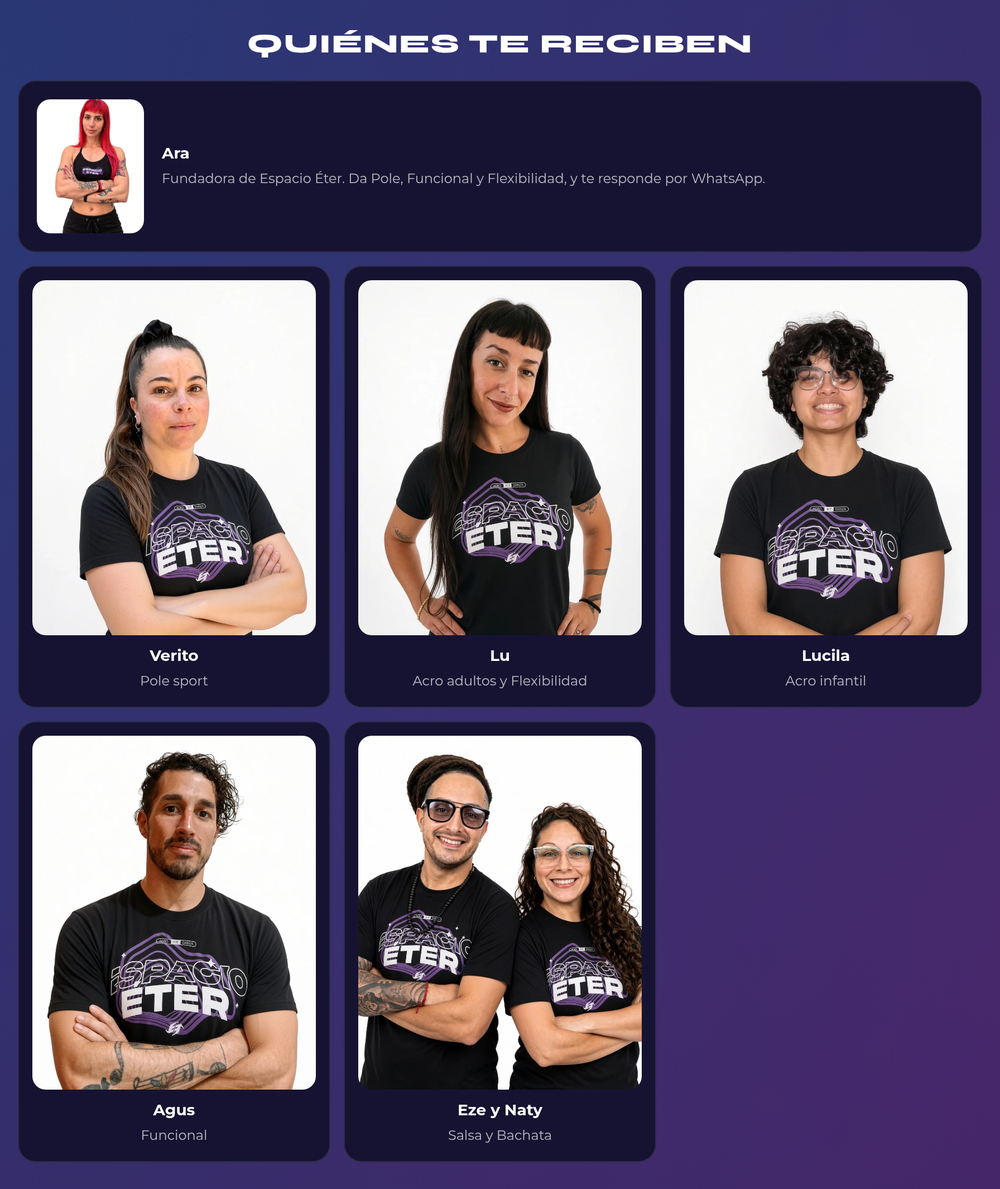
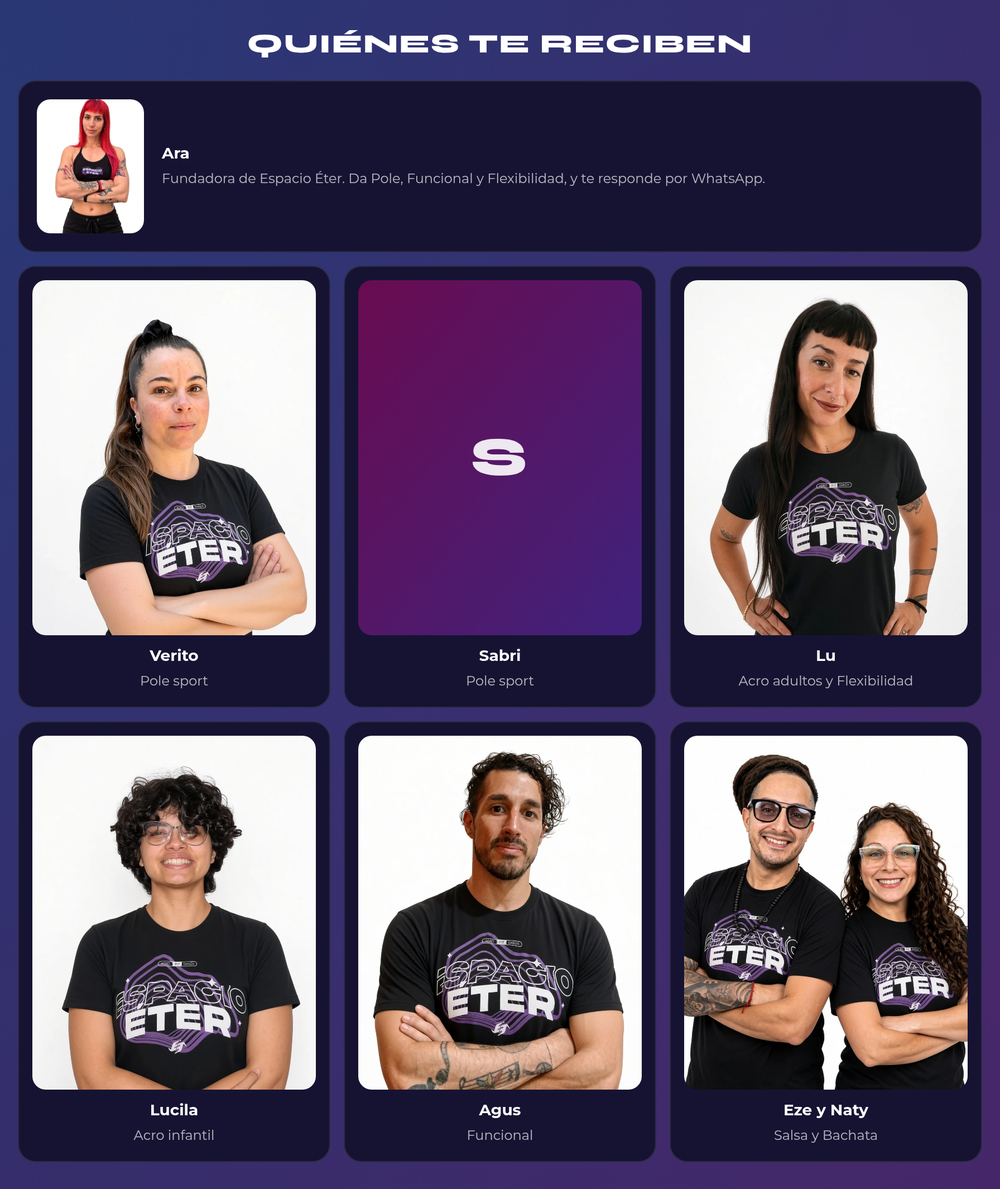
Suma a Sabri (Pole sport), sin foto por ahora

diff --git a/tailwind.min.css b/tailwind.min.css
@@ -1,1 +1,1 @@
-*,:after,:before{--tw-border-spacing-x:0;--tw-border-spacing-y:0;--tw-translate-x:0;--tw-translate-y:0;--tw-rotate:0;--tw-skew-x:0;--tw-skew-y:0;--tw-scale-x:1;--tw-scale-y:1;--tw-pan-x: ;--tw-pan-y: ;--tw-pinch-zoom: ;--tw-scroll-snap-strictness:proximity;--tw-gradient-from-position: ;--tw-gradient-via-position: ;--tw-gradient-to-position: ;--tw-ordinal: ;--tw-slashed-zero: ;--tw-numeric-figure: ;--tw-numeric-spacing: ;--tw-numeric-fraction: ;--tw-ring-inset: ;--tw-ring-offset-width:0px;--tw-ring-offset-color:#fff;--tw-ring-color:rgba(59,130,246,.5);--tw-ring-offset-shadow:0 0 #0000;--tw-ring-shadow:0 0 #0000;--tw-shadow:0 0 #0000;--tw-shadow-colored:0 0 #0000;--tw-blur: ;--tw-brightness: ;--tw-contrast: ;--tw-grayscale: ;--tw-hue-rotate: ;--tw-invert: ;--tw-saturate: ;--tw-sepia: ;--tw-drop-shadow: ;--tw-backdrop-blur: ;--tw-backdrop-brightness: ;--tw-backdrop-contrast: ;--tw-backdrop-grayscale: ;--tw-backdrop-hue-rotate: ;--tw-backdrop-invert: ;--tw-backdrop-opacity: ;--tw-backdrop-saturate: ;--tw-backdrop-sepia: ;--tw-contain-size: ;--tw-contain-layout: ;--tw-contain-paint: ;--tw-contain-style: }::backdrop{--tw-border-spacing-x:0;--tw-border-spacing-y:0;--tw-translate-x:0;--tw-translate-y:0;--tw-rotate:0;--tw-skew-x:0;--tw-skew-y:0;--tw-scale-x:1;--tw-scale-y:1;--tw-pan-x: ;--tw-pan-y: ;--tw-pinch-zoom: ;--tw-scroll-snap-strictness:proximity;--tw-gradient-from-position: ;--tw-gradient-via-position: ;--tw-gradient-to-position: ;--tw-ordinal: ;--tw-slashed-zero: ;--tw-numeric-figure: ;--tw-numeric-spacing: ;--tw-numeric-fraction: ;--tw-ring-inset: ;--tw-ring-offset-width:0px;--tw-ring-offset-color:#fff;--tw-ring-color:rgba(59,130,246,.5);--tw-ring-offset-shadow:0 0 #0000;--tw-ring-shadow:0 0 #0000;--tw-shadow:0 0 #0000;--tw-shadow-colored:0 0 #0000;--tw-blur: ;--tw-brightness: ;--tw-contrast: ;--tw-grayscale: ;--tw-hue-rotate: ;--tw-invert: ;--tw-saturate: ;--tw-sepia: ;--tw-drop-shadow: ;--tw-backdrop-blur: ;--tw-backdrop-brightness: ;--tw-backdrop-contrast: ;--tw-backdrop-grayscale: ;--tw-backdrop-hue-rotate: ;--tw-backdrop-invert: ;--tw-backdrop-opacity: ;--tw-backdrop-saturate: ;--tw-backdrop-sepia: ;--tw-contain-size: ;--tw-contain-layout: ;--tw-contain-paint: ;--tw-contain-style: }/*! tailwindcss v3.4.17 | MIT License | https://tailwindcss.com*/*,:after,:before{box-sizing:border-box;border:0 solid #e5e7eb}:after,:before{--tw-content:""}:host,html{line-height:1.5;-webkit-text-size-adjust:100%;-moz-tab-size:4;-o-tab-size:4;tab-size:4;font-family:ui-sans-serif,system-ui,sans-serif,Apple Color Emoji,Segoe UI Emoji,Segoe UI Symbol,Noto Color Emoji;font-feature-settings:normal;font-variation-settings:normal;-webkit-tap-highlight-color:transparent}body{margin:0;line-height:inherit}hr{height:0;color:inherit;border-top-width:1px}abbr:where([title]){-webkit-text-decoration:underline dotted;text-decoration:underline dotted}h1,h2,h3,h4,h5,h6{font-size:inherit;font-weight:inherit}a{color:inherit;text-decoration:inherit}b,strong{font-weight:bolder}code,kbd,pre,samp{font-family:ui-monospace,SFMono-Regular,Menlo,Monaco,Consolas,Liberation Mono,Courier New,monospace;font-feature-settings:normal;font-variation-settings:normal;font-size:1em}small{font-size:80%}sub,sup{font-size:75%;line-height:0;position:relative;vertical-align:baseline}sub{bottom:-.25em}sup{top:-.5em}table{text-indent:0;border-color:inherit;border-collapse:collapse}button,input,optgroup,select,textarea{font-family:inherit;font-feature-settings:inherit;font-variation-settings:inherit;font-size:100%;font-weight:inherit;line-height:inherit;letter-spacing:inherit;color:inherit;margin:0;padding:0}button,select{text-transform:none}button,input:where([type=button]),input:where([type=reset]),input:where([type=submit]){-webkit-appearance:button;background-color:transparent;background-image:none}:-moz-focusring{outline:auto}:-moz-ui-invalid{box-shadow:none}progress{vertical-align:baseline}::-webkit-inner-spin-button,::-webkit-outer-spin-button{height:auto}[type=search]{-webkit-appearance:textfield;outline-offset:-2px}::-webkit-search-decoration{-webkit-appearance:none}::-webkit-file-upload-button{-webkit-appearance:button;font:inherit}summary{display:list-item}blockquote,dd,dl,figure,h1,h2,h3,h4,h5,h6,hr,p,pre{margin:0}fieldset{margin:0}fieldset,legend{padding:0}menu,ol,ul{list-style:none;margin:0;padding:0}dialog{padding:0}textarea{resize:vertical}input::-moz-placeholder,textarea::-moz-placeholder{opacity:1;color:#9ca3af}input::placeholder,textarea::placeholder{opacity:1;color:#9ca3af}[role=button],button{cursor:pointer}:disabled{cursor:default}audio,canvas,embed,iframe,img,object,svg,video{display:block;vertical-align:middle}img,video{max-width:100%;height:auto}[hidden]:where(:not([hidden=until-found])){display:none}.pointer-events-none{pointer-events:none}.fixed{position:fixed}.absolute{position:absolute}.relative{position:relative}.sticky{position:sticky}.inset-0{inset:0}.bottom-0{bottom:0}.left-0{left:0}.right-0{right:0}.top-0{top:0}.z-10{z-index:10}.z-40{z-index:40}.z-50{z-index:50}.mx-auto{margin-left:auto;margin-right:auto}.my-4{margin-top:1rem;margin-bottom:1rem}.-mt-2{margin-top:-.5rem}.mb-1{margin-bottom:.25rem}.mb-2{margin-bottom:.5rem}.mb-3{margin-bottom:.75rem}.mb-4{margin-bottom:1rem}.mb-5{margin-bottom:1.25rem}.mb-6{margin-bottom:1.5rem}.ml-1{margin-left:.25rem}.mr-2{margin-right:.5rem}.mt-1{margin-top:.25rem}.mt-2{margin-top:.5rem}.mt-3{margin-top:.75rem}.mt-4{margin-top:1rem}.mt-5{margin-top:1.25rem}.mt-6{margin-top:1.5rem}.mt-9{margin-top:2.25rem}.block{display:block}.inline-block{display:inline-block}.flex{display:flex}.inline-flex{display:inline-flex}.grid{display:grid}.hidden{display:none}.aspect-\[4\/5\]{aspect-ratio:4/5}.aspect-square{aspect-ratio:1/1}.h-10{height:2.5rem}.h-11{height:2.75rem}.h-2\.5{height:.625rem}.h-44{height:11rem}.h-full{height:100%}.min-h-screen{min-height:100vh}.w-10{width:2.5rem}.w-11{width:2.75rem}.w-2\.5{width:.625rem}.w-24{width:6rem}.w-full{width:100%}.max-w-2xl{max-width:42rem}.max-w-3xl{max-width:48rem}.max-w-4xl{max-width:56rem}.max-w-md{max-width:28rem}.max-w-xl{max-width:36rem}.flex-1{flex:1 1 0%}.shrink-0{flex-shrink:0}.transform{transform:translate(var(--tw-translate-x),var(--tw-translate-y)) rotate(var(--tw-rotate)) skewX(var(--tw-skew-x)) skewY(var(--tw-skew-y)) scaleX(var(--tw-scale-x)) scaleY(var(--tw-scale-y))}@keyframes pulse{50%{opacity:.5}}.animate-pulse{animation:pulse 2s cubic-bezier(.4,0,.6,1) infinite}.cursor-pointer{cursor:pointer}.scroll-mt-14{scroll-margin-top:3.5rem}.grid-cols-1{grid-template-columns:repeat(1,minmax(0,1fr))}.grid-cols-2{grid-template-columns:repeat(2,minmax(0,1fr))}.flex-col{flex-direction:column}.flex-wrap{flex-wrap:wrap}.items-start{align-items:flex-start}.items-center{align-items:center}.items-baseline{align-items:baseline}.justify-center{justify-content:center}.justify-between{justify-content:space-between}.gap-1\.5{gap:.375rem}.gap-2{gap:.5rem}.gap-3{gap:.75rem}.gap-4{gap:1rem}.gap-6{gap:1.5rem}.space-y-2>:not([hidden])~:not([hidden]){--tw-space-y-reverse:0;margin-top:calc(.5rem*(1 - var(--tw-space-y-reverse)));margin-bottom:calc(.5rem*var(--tw-space-y-reverse))}.space-y-3>:not([hidden])~:not([hidden]){--tw-space-y-reverse:0;margin-top:calc(.75rem*(1 - var(--tw-space-y-reverse)));margin-bottom:calc(.75rem*var(--tw-space-y-reverse))}.space-y-4>:not([hidden])~:not([hidden]){--tw-space-y-reverse:0;margin-top:calc(1rem*(1 - var(--tw-space-y-reverse)));margin-bottom:calc(1rem*var(--tw-space-y-reverse))}.divide-y>:not([hidden])~:not([hidden]){--tw-divide-y-reverse:0;border-top-width:calc(1px*(1 - var(--tw-divide-y-reverse)));border-bottom-width:calc(1px*var(--tw-divide-y-reverse))}.divide-\[\#0069b4\]\/40>:not([hidden])~:not([hidden]){border-color:rgba(0,105,180,.4)}.overflow-hidden{overflow:hidden}.scroll-smooth{scroll-behavior:smooth}.rounded-2xl{border-radius:1rem}.rounded-3xl{border-radius:1.5rem}.rounded-full{border-radius:9999px}.rounded-lg{border-radius:.5rem}.rounded-xl{border-radius:.75rem}.border{border-width:1px}.border-2{border-width:2px}.border-b{border-bottom-width:1px}.border-t{border-top-width:1px}.border-dashed{border-style:dashed}.border-\[\#0069b4\]{--tw-border-opacity:1;border-color:rgb(0 105 180/var(--tw-border-opacity,1))}.border-\[\#0069b4\]\/50{border-color:rgba(0,105,180,.5)}.border-\[\#0069b4\]\/60{border-color:rgba(0,105,180,.6)}.border-\[\#0069b4\]\/80{border-color:rgba(0,105,180,.8)}.border-\[\#38bdf8\]\/40{border-color:rgba(56,189,248,.4)}.border-\[\#613b7f\]{--tw-border-opacity:1;border-color:rgb(97 59 127/var(--tw-border-opacity,1))}.border-\[\#e6007e\]{--tw-border-opacity:1;border-color:rgb(230 0 126/var(--tw-border-opacity,1))}.border-emerald-400\/40{border-color:rgba(52,211,153,.4)}.border-purple-400{--tw-border-opacity:1;border-color:rgb(192 132 252/var(--tw-border-opacity,1))}.border-white\/10{border-color:hsla(0,0%,100%,.1)}.border-white\/15{border-color:hsla(0,0%,100%,.15)}.border-white\/20{border-color:hsla(0,0%,100%,.2)}.bg-\[\#0069b4\]{--tw-bg-opacity:1;background-color:rgb(0 105 180/var(--tw-bg-opacity,1))}.bg-\[\#0069b4\]\/20{background-color:rgba(0,105,180,.2)}.bg-\[\#0069b4\]\/25{background-color:rgba(0,105,180,.25)}.bg-\[\#0069b4\]\/30{background-color:rgba(0,105,180,.3)}.bg-\[\#0069b4\]\/40{background-color:rgba(0,105,180,.4)}.bg-\[\#161332\]{--tw-bg-opacity:1;background-color:rgb(22 19 50/var(--tw-bg-opacity,1))}.bg-\[\#161332\]\/80{background-color:rgba(22,19,50,.8)}.bg-\[\#1b173d\]\/90{background-color:rgba(27,23,61,.9)}.bg-\[\#272250\]{--tw-bg-opacity:1;background-color:rgb(39 34 80/var(--tw-bg-opacity,1))}.bg-\[\#272250\]\/90{background-color:rgba(39,34,80,.9)}.bg-\[\#613b7f\]\/40{background-color:rgba(97,59,127,.4)}.bg-\[\#e6007e\]{--tw-bg-opacity:1;background-color:rgb(230 0 126/var(--tw-bg-opacity,1))}.bg-\[\#e6007e\]\/20{background-color:rgba(230,0,126,.2)}.bg-black\/25{background-color:rgba(0,0,0,.25)}.bg-emerald-400{--tw-bg-opacity:1;background-color:rgb(52 211 153/var(--tw-bg-opacity,1))}.bg-emerald-500\/20{background-color:rgba(16,185,129,.2)}.bg-white{--tw-bg-opacity:1;background-color:rgb(255 255 255/var(--tw-bg-opacity,1))}.bg-white\/5{background-color:hsla(0,0%,100%,.05)}.bg-gradient-to-b{background-image:linear-gradient(to bottom,var(--tw-gradient-stops))}.bg-gradient-to-t{background-image:linear-gradient(to top,var(--tw-gradient-stops))}.from-\[\#161332\]{--tw-gradient-from:#161332 var(--tw-gradient-from-position);--tw-gradient-to:rgba(22,19,50,0) var(--tw-gradient-to-position);--tw-gradient-stops:var(--tw-gradient-from),var(--tw-gradient-to)}.from-\[\#272250\]\/70{--tw-gradient-from:rgba(39,34,80,.7) var(--tw-gradient-from-position);--tw-gradient-to:rgba(39,34,80,0) var(--tw-gradient-to-position);--tw-gradient-stops:var(--tw-gradient-from),var(--tw-gradient-to)}.via-\[\#161332\]\/80{--tw-gradient-to:rgba(22,19,50,0) var(--tw-gradient-to-position);--tw-gradient-stops:var(--tw-gradient-from),rgba(22,19,50,.8) var(--tw-gradient-via-position),var(--tw-gradient-to)}.via-\[\#161332\]\/95{--tw-gradient-to:rgba(22,19,50,0) var(--tw-gradient-to-position);--tw-gradient-stops:var(--tw-gradient-from),rgba(22,19,50,.95) var(--tw-gradient-via-position),var(--tw-gradient-to)}.to-\[\#161332\]{--tw-gradient-to:#161332 var(--tw-gradient-to-position)}.to-transparent{--tw-gradient-to:transparent var(--tw-gradient-to-position)}.fill-white{fill:#fff}.object-cover{-o-object-fit:cover;object-fit:cover}.p-1\.5{padding:.375rem}.p-3{padding:.75rem}.p-3\.5{padding:.875rem}.p-4{padding:1rem}.p-5{padding:1.25rem}.p-6{padding:1.5rem}.px-2{padding-left:.5rem;padding-right:.5rem}.px-2\.5{padding-left:.625rem;padding-right:.625rem}.px-3{padding-left:.75rem;padding-right:.75rem}.px-3\.5{padding-left:.875rem;padding-right:.875rem}.px-4{padding-left:1rem;padding-right:1rem}.px-5{padding-left:1.25rem;padding-right:1.25rem}.px-6{padding-left:1.5rem;padding-right:1.5rem}.px-8{padding-left:2rem;padding-right:2rem}.py-0\.5{padding-top:.125rem;padding-bottom:.125rem}.py-1{padding-top:.25rem;padding-bottom:.25rem}.py-1\.5{padding-top:.375rem;padding-bottom:.375rem}.py-10{padding-top:2.5rem;padding-bottom:2.5rem}.py-2{padding-top:.5rem;padding-bottom:.5rem}.py-2\.5{padding-top:.625rem;padding-bottom:.625rem}.py-3{padding-top:.75rem;padding-bottom:.75rem}.py-3\.5{padding-top:.875rem;padding-bottom:.875rem}.py-4{padding-top:1rem;padding-bottom:1rem}.py-6{padding-top:1.5rem;padding-bottom:1.5rem}.py-8{padding-top:2rem;padding-bottom:2rem}.pb-10{padding-bottom:2.5rem}.pb-12{padding-bottom:3rem}.pb-24{padding-bottom:6rem}.pb-9{padding-bottom:2.25rem}.pt-3{padding-top:.75rem}.pt-6{padding-top:1.5rem}.pt-7{padding-top:1.75rem}.text-left{text-align:left}.text-center{text-align:center}.font-sans{font-family:ui-sans-serif,system-ui,sans-serif,Apple Color Emoji,Segoe UI Emoji,Segoe UI Symbol,Noto Color Emoji}.text-2xl{font-size:1.5rem;line-height:2rem}.text-3xl{font-size:1.875rem;line-height:2.25rem}.text-4xl{font-size:2.25rem;line-height:2.5rem}.text-\[10px\]{font-size:10px}.text-\[11px\]{font-size:11px}.text-base{font-size:1rem;line-height:1.5rem}.text-lg{font-size:1.125rem;line-height:1.75rem}.text-sm{font-size:.875rem;line-height:1.25rem}.text-xl{font-size:1.25rem;line-height:1.75rem}.text-xs{font-size:.75rem;line-height:1rem}.font-black{font-weight:900}.font-bold{font-weight:700}.font-medium{font-weight:500}.font-semibold{font-weight:600}.uppercase{text-transform:uppercase}.italic{font-style:italic}.leading-none{line-height:1}.leading-relaxed{line-height:1.625}.tracking-\[0\.28em\]{letter-spacing:.28em}.tracking-\[0\.35em\]{letter-spacing:.35em}.tracking-wide{letter-spacing:.025em}.tracking-wider{letter-spacing:.05em}.tracking-widest{letter-spacing:.1em}.text-\[\#0069b4\]{--tw-text-opacity:1;color:rgb(0 105 180/var(--tw-text-opacity,1))}.text-\[\#272250\]{--tw-text-opacity:1;color:rgb(39 34 80/var(--tw-text-opacity,1))}.text-\[\#272250\]\/60{color:rgba(39,34,80,.6)}.text-\[\#38bdf8\]{--tw-text-opacity:1;color:rgb(56 189 248/var(--tw-text-opacity,1))}.text-\[\#4285F4\]{--tw-text-opacity:1;color:rgb(66 133 244/var(--tw-text-opacity,1))}.text-\[\#e6007e\]{--tw-text-opacity:1;color:rgb(230 0 126/var(--tw-text-opacity,1))}.text-\[\#ff66b8\]{--tw-text-opacity:1;color:rgb(255 102 184/var(--tw-text-opacity,1))}.text-amber-300{--tw-text-opacity:1;color:rgb(252 211 77/var(--tw-text-opacity,1))}.text-amber-500{--tw-text-opacity:1;color:rgb(245 158 11/var(--tw-text-opacity,1))}.text-emerald-300{--tw-text-opacity:1;color:rgb(110 231 183/var(--tw-text-opacity,1))}.text-purple-300{--tw-text-opacity:1;color:rgb(216 180 254/var(--tw-text-opacity,1))}.text-white{--tw-text-opacity:1;color:rgb(255 255 255/var(--tw-text-opacity,1))}.text-white\/30{color:hsla(0,0%,100%,.3)}.text-white\/50{color:hsla(0,0%,100%,.5)}.text-white\/60{color:hsla(0,0%,100%,.6)}.text-white\/65{color:hsla(0,0%,100%,.65)}.text-white\/70{color:hsla(0,0%,100%,.7)}.text-white\/75{color:hsla(0,0%,100%,.75)}.text-white\/80{color:hsla(0,0%,100%,.8)}.text-white\/85{color:hsla(0,0%,100%,.85)}.text-white\/90{color:hsla(0,0%,100%,.9)}.underline{text-decoration-line:underline}.opacity-15{opacity:.15}.opacity-30{opacity:.3}.shadow{--tw-shadow:0 1px 3px 0 rgba(0,0,0,.1),0 1px 2px -1px rgba(0,0,0,.1);--tw-shadow-colored:0 1px 3px 0 var(--tw-shadow-color),0 1px 2px -1px var(--tw-shadow-color)}.shadow,.shadow-lg{box-shadow:var(--tw-ring-offset-shadow,0 0 #0000),var(--tw-ring-shadow,0 0 #0000),var(--tw-shadow)}.shadow-lg{--tw-shadow:0 10px 15px -3px rgba(0,0,0,.1),0 4px 6px -4px rgba(0,0,0,.1);--tw-shadow-colored:0 10px 15px -3px var(--tw-shadow-color),0 4px 6px -4px var(--tw-shadow-color)}.ring-4{--tw-ring-offset-shadow:var(--tw-ring-inset) 0 0 0 var(--tw-ring-offset-width) var(--tw-ring-offset-color);--tw-ring-shadow:var(--tw-ring-inset) 0 0 0 calc(4px + var(--tw-ring-offset-width)) var(--tw-ring-color);box-shadow:var(--tw-ring-offset-shadow),var(--tw-ring-shadow),var(--tw-shadow,0 0 #0000)}.ring-white\/60{--tw-ring-color:hsla(0,0%,100%,.6)}.backdrop-blur-md{--tw-backdrop-blur:blur(12px)}.backdrop-blur-md,.backdrop-blur-sm{-webkit-backdrop-filter:var(--tw-backdrop-blur) var(--tw-backdrop-brightness) var(--tw-backdrop-contrast) var(--tw-backdrop-grayscale) var(--tw-backdrop-hue-rotate) var(--tw-backdrop-invert) var(--tw-backdrop-opacity) var(--tw-backdrop-saturate) var(--tw-backdrop-sepia);backdrop-filter:var(--tw-backdrop-blur) var(--tw-backdrop-brightness) var(--tw-backdrop-contrast) var(--tw-backdrop-grayscale) var(--tw-backdrop-hue-rotate) var(--tw-backdrop-invert) var(--tw-backdrop-opacity) var(--tw-backdrop-saturate) var(--tw-backdrop-sepia)}.backdrop-blur-sm{--tw-backdrop-blur:blur(4px)}.transition{transition-property:color,background-color,border-color,text-decoration-color,fill,stroke,opacity,box-shadow,transform,filter,-webkit-backdrop-filter;transition-property:color,background-color,border-color,text-decoration-color,fill,stroke,opacity,box-shadow,transform,filter,backdrop-filter;transition-property:color,background-color,border-color,text-decoration-color,fill,stroke,opacity,box-shadow,transform,filter,backdrop-filter,-webkit-backdrop-filter;transition-timing-function:cubic-bezier(.4,0,.2,1);transition-duration:.15s}.selection\:bg-\[\#e6007e\] ::-moz-selection{--tw-bg-opacity:1;background-color:rgb(230 0 126/var(--tw-bg-opacity,1))}.selection\:bg-\[\#e6007e\] ::selection{--tw-bg-opacity:1;background-color:rgb(230 0 126/var(--tw-bg-opacity,1))}.selection\:text-white ::-moz-selection{--tw-text-opacity:1;color:rgb(255 255 255/var(--tw-text-opacity,1))}.selection\:text-white ::selection{--tw-text-opacity:1;color:rgb(255 255 255/var(--tw-text-opacity,1))}.selection\:bg-\[\#e6007e\]::-moz-selection{--tw-bg-opacity:1;background-color:rgb(230 0 126/var(--tw-bg-opacity,1))}.selection\:bg-\[\#e6007e\]::selection{--tw-bg-opacity:1;background-color:rgb(230 0 126/var(--tw-bg-opacity,1))}.selection\:text-white::-moz-selection{--tw-text-opacity:1;color:rgb(255 255 255/var(--tw-text-opacity,1))}.selection\:text-white::selection{--tw-text-opacity:1;color:rgb(255 255 255/var(--tw-text-opacity,1))}.hover\:border-\[\#e6007e\]:hover{--tw-border-opacity:1;border-color:rgb(230 0 126/var(--tw-border-opacity,1))}.hover\:bg-\[\#0069b4\]:hover{--tw-bg-opacity:1;background-color:rgb(0 105 180/var(--tw-bg-opacity,1))}.hover\:bg-\[\#0284c7\]:hover{--tw-bg-opacity:1;background-color:rgb(2 132 199/var(--tw-bg-opacity,1))}.hover\:bg-\[\#ff1a94\]:hover{--tw-bg-opacity:1;background-color:rgb(255 26 148/var(--tw-bg-opacity,1))}.hover\:bg-pink-50:hover{--tw-bg-opacity:1;background-color:rgb(253 242 248/var(--tw-bg-opacity,1))}.hover\:bg-white\/5:hover{background-color:hsla(0,0%,100%,.05)}.hover\:text-white:hover{--tw-text-opacity:1;color:rgb(255 255 255/var(--tw-text-opacity,1))}@media (min-width:640px){.sm\:-mt-3{margin-top:-.75rem}.sm\:inline-flex{display:inline-flex}.sm\:w-40{width:10rem}.sm\:w-auto{width:auto}.sm\:grid-cols-2{grid-template-columns:repeat(2,minmax(0,1fr))}.sm\:grid-cols-3{grid-template-columns:repeat(3,minmax(0,1fr))}.sm\:flex-row{flex-direction:row}.sm\:items-center{align-items:center}.sm\:p-4{padding:1rem}.sm\:p-7{padding:1.75rem}.sm\:p-8{padding:2rem}.sm\:pb-12{padding-bottom:3rem}.sm\:pt-12{padding-top:3rem}.sm\:text-left{text-align:left}.sm\:text-2xl{font-size:1.5rem;line-height:2rem}.sm\:text-3xl{font-size:1.875rem;line-height:2.25rem}.sm\:text-4xl{font-size:2.25rem;line-height:2.5rem}.sm\:text-5xl{font-size:3rem;line-height:1}.sm\:text-6xl{font-size:3.75rem;line-height:1}.sm\:text-base{font-size:1rem;line-height:1.5rem}.sm\:text-lg{font-size:1.125rem;line-height:1.75rem}.sm\:text-sm{font-size:.875rem;line-height:1.25rem}}@media (min-width:768px){.md\:grid-cols-2{grid-template-columns:repeat(2,minmax(0,1fr))}}@media (min-width:1024px){.lg\:grid-cols-3{grid-template-columns:repeat(3,minmax(0,1fr))}}
+*,:after,:before{--tw-border-spacing-x:0;--tw-border-spacing-y:0;--tw-translate-x:0;--tw-translate-y:0;--tw-rotate:0;--tw-skew-x:0;--tw-skew-y:0;--tw-scale-x:1;--tw-scale-y:1;--tw-pan-x: ;--tw-pan-y: ;--tw-pinch-zoom: ;--tw-scroll-snap-strictness:proximity;--tw-gradient-from-position: ;--tw-gradient-via-position: ;--tw-gradient-to-position: ;--tw-ordinal: ;--tw-slashed-zero: ;--tw-numeric-figure: ;--tw-numeric-spacing: ;--tw-numeric-fraction: ;--tw-ring-inset: ;--tw-ring-offset-width:0px;--tw-ring-offset-color:#fff;--tw-ring-color:rgba(59,130,246,.5);--tw-ring-offset-shadow:0 0 #0000;--tw-ring-shadow:0 0 #0000;--tw-shadow:0 0 #0000;--tw-shadow-colored:0 0 #0000;--tw-blur: ;--tw-brightness: ;--tw-contrast: ;--tw-grayscale: ;--tw-hue-rotate: ;--tw-invert: ;--tw-saturate: ;--tw-sepia: ;--tw-drop-shadow: ;--tw-backdrop-blur: ;--tw-backdrop-brightness: ;--tw-backdrop-contrast: ;--tw-backdrop-grayscale: ;--tw-backdrop-hue-rotate: ;--tw-backdrop-invert: ;--tw-backdrop-opacity: ;--tw-backdrop-saturate: ;--tw-backdrop-sepia: ;--tw-contain-size: ;--tw-contain-layout: ;--tw-contain-paint: ;--tw-contain-style: }::backdrop{--tw-border-spacing-x:0;--tw-border-spacing-y:0;--tw-translate-x:0;--tw-translate-y:0;--tw-rotate:0;--tw-skew-x:0;--tw-skew-y:0;--tw-scale-x:1;--tw-scale-y:1;--tw-pan-x: ;--tw-pan-y: ;--tw-pinch-zoom: ;--tw-scroll-snap-strictness:proximity;--tw-gradient-from-position: ;--tw-gradient-via-position: ;--tw-gradient-to-position: ;--tw-ordinal: ;--tw-slashed-zero: ;--tw-numeric-figure: ;--tw-numeric-spacing: ;--tw-numeric-fraction: ;--tw-ring-inset: ;--tw-ring-offset-width:0px;--tw-ring-offset-color:#fff;--tw-ring-color:rgba(59,130,246,.5);--tw-ring-offset-shadow:0 0 #0000;--tw-ring-shadow:0 0 #0000;--tw-shadow:0 0 #0000;--tw-shadow-colored:0 0 #0000;--tw-blur: ;--tw-brightness: ;--tw-contrast: ;--tw-grayscale: ;--tw-hue-rotate: ;--tw-invert: ;--tw-saturate: ;--tw-sepia: ;--tw-drop-shadow: ;--tw-backdrop-blur: ;--tw-backdrop-brightness: ;--tw-backdrop-contrast: ;--tw-backdrop-grayscale: ;--tw-backdrop-hue-rotate: ;--tw-backdrop-invert: ;--tw-backdrop-opacity: ;--tw-backdrop-saturate: ;--tw-backdrop-sepia: ;--tw-contain-size: ;--tw-contain-layout: ;--tw-contain-paint: ;--tw-contain-style: }/*! tailwindcss v3.4.17 | MIT License | https://tailwindcss.com*/*,:after,:before{box-sizing:border-box;border:0 solid #e5e7eb}:after,:before{--tw-content:""}:host,html{line-height:1.5;-webkit-text-size-adjust:100%;-moz-tab-size:4;-o-tab-size:4;tab-size:4;font-family:ui-sans-serif,system-ui,sans-serif,Apple Color Emoji,Segoe UI Emoji,Segoe UI Symbol,Noto Color Emoji;font-feature-settings:normal;font-variation-settings:normal;-webkit-tap-highlight-color:transparent}body{margin:0;line-height:inherit}hr{height:0;color:inherit;border-top-width:1px}abbr:where([title]){-webkit-text-decoration:underline dotted;text-decoration:underline dotted}h1,h2,h3,h4,h5,h6{font-size:inherit;font-weight:inherit}a{color:inherit;text-decoration:inherit}b,strong{font-weight:bolder}code,kbd,pre,samp{font-family:ui-monospace,SFMono-Regular,Menlo,Monaco,Consolas,Liberation Mono,Courier New,monospace;font-feature-settings:normal;font-variation-settings:normal;font-size:1em}small{font-size:80%}sub,sup{font-size:75%;line-height:0;position:relative;vertical-align:baseline}sub{bottom:-.25em}sup{top:-.5em}table{text-indent:0;border-color:inherit;border-collapse:collapse}button,input,optgroup,select,textarea{font-family:inherit;font-feature-settings:inherit;font-variation-settings:inherit;font-size:100%;font-weight:inherit;line-height:inherit;letter-spacing:inherit;color:inherit;margin:0;padding:0}button,select{text-transform:none}button,input:where([type=button]),input:where([type=reset]),input:where([type=submit]){-webkit-appearance:button;background-color:transparent;background-image:none}:-moz-focusring{outline:auto}:-moz-ui-invalid{box-shadow:none}progress{vertical-align:baseline}::-webkit-inner-spin-button,::-webkit-outer-spin-button{height:auto}[type=search]{-webkit-appearance:textfield;outline-offset:-2px}::-webkit-search-decoration{-webkit-appearance:none}::-webkit-file-upload-button{-webkit-appearance:button;font:inherit}summary{display:list-item}blockquote,dd,dl,figure,h1,h2,h3,h4,h5,h6,hr,p,pre{margin:0}fieldset{margin:0}fieldset,legend{padding:0}menu,ol,ul{list-style:none;margin:0;padding:0}dialog{padding:0}textarea{resize:vertical}input::-moz-placeholder,textarea::-moz-placeholder{opacity:1;color:#9ca3af}input::placeholder,textarea::placeholder{opacity:1;color:#9ca3af}[role=button],button{cursor:pointer}:disabled{cursor:default}audio,canvas,embed,iframe,img,object,svg,video{display:block;vertical-align:middle}img,video{max-width:100%;height:auto}[hidden]:where(:not([hidden=until-found])){display:none}.pointer-events-none{pointer-events:none}.fixed{position:fixed}.absolute{position:absolute}.relative{position:relative}.sticky{position:sticky}.inset-0{inset:0}.bottom-0{bottom:0}.left-0{left:0}.right-0{right:0}.top-0{top:0}.z-10{z-index:10}.z-40{z-index:40}.z-50{z-index:50}.mx-auto{margin-left:auto;margin-right:auto}.my-4{margin-top:1rem;margin-bottom:1rem}.-mt-2{margin-top:-.5rem}.mb-1{margin-bottom:.25rem}.mb-2{margin-bottom:.5rem}.mb-3{margin-bottom:.75rem}.mb-4{margin-bottom:1rem}.mb-5{margin-bottom:1.25rem}.mb-6{margin-bottom:1.5rem}.ml-1{margin-left:.25rem}.mr-2{margin-right:.5rem}.mt-1{margin-top:.25rem}.mt-2{margin-top:.5rem}.mt-3{margin-top:.75rem}.mt-4{margin-top:1rem}.mt-5{margin-top:1.25rem}.mt-6{margin-top:1.5rem}.mt-9{margin-top:2.25rem}.block{display:block}.inline-block{display:inline-block}.flex{display:flex}.inline-flex{display:inline-flex}.grid{display:grid}.hidden{display:none}.aspect-\[4\/5\]{aspect-ratio:4/5}.aspect-square{aspect-ratio:1/1}.h-10{height:2.5rem}.h-11{height:2.75rem}.h-2\.5{height:.625rem}.h-44{height:11rem}.h-full{height:100%}.min-h-screen{min-height:100vh}.w-10{width:2.5rem}.w-11{width:2.75rem}.w-2\.5{width:.625rem}.w-24{width:6rem}.w-full{width:100%}.max-w-2xl{max-width:42rem}.max-w-3xl{max-width:48rem}.max-w-4xl{max-width:56rem}.max-w-md{max-width:28rem}.max-w-xl{max-width:36rem}.flex-1{flex:1 1 0%}.shrink-0{flex-shrink:0}.transform{transform:translate(var(--tw-translate-x),var(--tw-translate-y)) rotate(var(--tw-rotate)) skewX(var(--tw-skew-x)) skewY(var(--tw-skew-y)) scaleX(var(--tw-scale-x)) scaleY(var(--tw-scale-y))}@keyframes pulse{50%{opacity:.5}}.animate-pulse{animation:pulse 2s cubic-bezier(.4,0,.6,1) infinite}.cursor-pointer{cursor:pointer}.scroll-mt-14{scroll-margin-top:3.5rem}.grid-cols-1{grid-template-columns:repeat(1,minmax(0,1fr))}.grid-cols-2{grid-template-columns:repeat(2,minmax(0,1fr))}.flex-col{flex-direction:column}.flex-wrap{flex-wrap:wrap}.items-start{align-items:flex-start}.items-center{align-items:center}.items-baseline{align-items:baseline}.justify-center{justify-content:center}.justify-between{justify-content:space-between}.gap-1\.5{gap:.375rem}.gap-2{gap:.5rem}.gap-3{gap:.75rem}.gap-4{gap:1rem}.gap-6{gap:1.5rem}.space-y-2>:not([hidden])~:not([hidden]){--tw-space-y-reverse:0;margin-top:calc(.5rem*(1 - var(--tw-space-y-reverse)));margin-bottom:calc(.5rem*var(--tw-space-y-reverse))}.space-y-3>:not([hidden])~:not([hidden]){--tw-space-y-reverse:0;margin-top:calc(.75rem*(1 - var(--tw-space-y-reverse)));margin-bottom:calc(.75rem*var(--tw-space-y-reverse))}.space-y-4>:not([hidden])~:not([hidden]){--tw-space-y-reverse:0;margin-top:calc(1rem*(1 - var(--tw-space-y-reverse)));margin-bottom:calc(1rem*var(--tw-space-y-reverse))}.divide-y>:not([hidden])~:not([hidden]){--tw-divide-y-reverse:0;border-top-width:calc(1px*(1 - var(--tw-divide-y-reverse)));border-bottom-width:calc(1px*var(--tw-divide-y-reverse))}.divide-\[\#0069b4\]\/40>:not([hidden])~:not([hidden]){border-color:rgba(0,105,180,.4)}.overflow-hidden{overflow:hidden}.scroll-smooth{scroll-behavior:smooth}.rounded-2xl{border-radius:1rem}.rounded-3xl{border-radius:1.5rem}.rounded-full{border-radius:9999px}.rounded-lg{border-radius:.5rem}.rounded-xl{border-radius:.75rem}.border{border-width:1px}.border-2{border-width:2px}.border-b{border-bottom-width:1px}.border-t{border-top-width:1px}.border-dashed{border-style:dashed}.border-\[\#0069b4\]{--tw-border-opacity:1;border-color:rgb(0 105 180/var(--tw-border-opacity,1))}.border-\[\#0069b4\]\/50{border-color:rgba(0,105,180,.5)}.border-\[\#0069b4\]\/60{border-color:rgba(0,105,180,.6)}.border-\[\#0069b4\]\/80{border-color:rgba(0,105,180,.8)}.border-\[\#38bdf8\]\/40{border-color:rgba(56,189,248,.4)}.border-\[\#613b7f\]{--tw-border-opacity:1;border-color:rgb(97 59 127/var(--tw-border-opacity,1))}.border-\[\#e6007e\]{--tw-border-opacity:1;border-color:rgb(230 0 126/var(--tw-border-opacity,1))}.border-emerald-400\/40{border-color:rgba(52,211,153,.4)}.border-purple-400{--tw-border-opacity:1;border-color:rgb(192 132 252/var(--tw-border-opacity,1))}.border-white\/10{border-color:hsla(0,0%,100%,.1)}.border-white\/15{border-color:hsla(0,0%,100%,.15)}.border-white\/20{border-color:hsla(0,0%,100%,.2)}.bg-\[\#0069b4\]{--tw-bg-opacity:1;background-color:rgb(0 105 180/var(--tw-bg-opacity,1))}.bg-\[\#0069b4\]\/20{background-color:rgba(0,105,180,.2)}.bg-\[\#0069b4\]\/25{background-color:rgba(0,105,180,.25)}.bg-\[\#0069b4\]\/30{background-color:rgba(0,105,180,.3)}.bg-\[\#0069b4\]\/40{background-color:rgba(0,105,180,.4)}.bg-\[\#161332\]{--tw-bg-opacity:1;background-color:rgb(22 19 50/var(--tw-bg-opacity,1))}.bg-\[\#161332\]\/80{background-color:rgba(22,19,50,.8)}.bg-\[\#1b173d\]\/90{background-color:rgba(27,23,61,.9)}.bg-\[\#272250\]{--tw-bg-opacity:1;background-color:rgb(39 34 80/var(--tw-bg-opacity,1))}.bg-\[\#272250\]\/90{background-color:rgba(39,34,80,.9)}.bg-\[\#613b7f\]\/40{background-color:rgba(97,59,127,.4)}.bg-\[\#e6007e\]{--tw-bg-opacity:1;background-color:rgb(230 0 126/var(--tw-bg-opacity,1))}.bg-\[\#e6007e\]\/20{background-color:rgba(230,0,126,.2)}.bg-black\/25{background-color:rgba(0,0,0,.25)}.bg-emerald-400{--tw-bg-opacity:1;background-color:rgb(52 211 153/var(--tw-bg-opacity,1))}.bg-emerald-500\/20{background-color:rgba(16,185,129,.2)}.bg-white{--tw-bg-opacity:1;background-color:rgb(255 255 255/var(--tw-bg-opacity,1))}.bg-white\/5{background-color:hsla(0,0%,100%,.05)}.bg-gradient-to-b{background-image:linear-gradient(to bottom,var(--tw-gradient-stops))}.bg-gradient-to-br{background-image:linear-gradient(to bottom right,var(--tw-gradient-stops))}.bg-gradient-to-t{background-image:linear-gradient(to top,var(--tw-gradient-stops))}.from-\[\#161332\]{--tw-gradient-from:#161332 var(--tw-gradient-from-position);--tw-gradient-to:rgba(22,19,50,0) var(--tw-gradient-to-position);--tw-gradient-stops:var(--tw-gradient-from),var(--tw-gradient-to)}.from-\[\#272250\]\/70{--tw-gradient-from:rgba(39,34,80,.7) var(--tw-gradient-from-position);--tw-gradient-to:rgba(39,34,80,0) var(--tw-gradient-to-position);--tw-gradient-stops:var(--tw-gradient-from),var(--tw-gradient-to)}.from-\[\#e6007e\]\/40{--tw-gradient-from:rgba(230,0,126,.4) var(--tw-gradient-from-position);--tw-gradient-to:rgba(230,0,126,0) var(--tw-gradient-to-position);--tw-gradient-stops:var(--tw-gradient-from),var(--tw-gradient-to)}.via-\[\#161332\]\/80{--tw-gradient-to:rgba(22,19,50,0) var(--tw-gradient-to-position);--tw-gradient-stops:var(--tw-gradient-from),rgba(22,19,50,.8) var(--tw-gradient-via-position),var(--tw-gradient-to)}.via-\[\#161332\]\/95{--tw-gradient-to:rgba(22,19,50,0) var(--tw-gradient-to-position);--tw-gradient-stops:var(--tw-gradient-from),rgba(22,19,50,.95) var(--tw-gradient-via-position),var(--tw-gradient-to)}.to-\[\#161332\]{--tw-gradient-to:#161332 var(--tw-gradient-to-position)}.to-\[\#7c3aed\]\/40{--tw-gradient-to:rgba(124,58,237,.4) var(--tw-gradient-to-position)}.to-transparent{--tw-gradient-to:transparent var(--tw-gradient-to-position)}.fill-white{fill:#fff}.object-cover{-o-object-fit:cover;object-fit:cover}.p-1\.5{padding:.375rem}.p-3{padding:.75rem}.p-3\.5{padding:.875rem}.p-4{padding:1rem}.p-5{padding:1.25rem}.p-6{padding:1.5rem}.px-2{padding-left:.5rem;padding-right:.5rem}.px-2\.5{padding-left:.625rem;padding-right:.625rem}.px-3{padding-left:.75rem;padding-right:.75rem}.px-3\.5{padding-left:.875rem;padding-right:.875rem}.px-4{padding-left:1rem;padding-right:1rem}.px-5{padding-left:1.25rem;padding-right:1.25rem}.px-6{padding-left:1.5rem;padding-right:1.5rem}.px-8{padding-left:2rem;padding-right:2rem}.py-0\.5{padding-top:.125rem;padding-bottom:.125rem}.py-1{padding-top:.25rem;padding-bottom:.25rem}.py-1\.5{padding-top:.375rem;padding-bottom:.375rem}.py-10{padding-top:2.5rem;padding-bottom:2.5rem}.py-2{padding-top:.5rem;padding-bottom:.5rem}.py-2\.5{padding-top:.625rem;padding-bottom:.625rem}.py-3{padding-top:.75rem;padding-bottom:.75rem}.py-3\.5{padding-top:.875rem;padding-bottom:.875rem}.py-4{padding-top:1rem;padding-bottom:1rem}.py-6{padding-top:1.5rem;padding-bottom:1.5rem}.py-8{padding-top:2rem;padding-bottom:2rem}.pb-10{padding-bottom:2.5rem}.pb-12{padding-bottom:3rem}.pb-24{padding-bottom:6rem}.pb-9{padding-bottom:2.25rem}.pt-3{padding-top:.75rem}.pt-6{padding-top:1.5rem}.pt-7{padding-top:1.75rem}.text-left{text-align:left}.text-center{text-align:center}.font-sans{font-family:ui-sans-serif,system-ui,sans-serif,Apple Color Emoji,Segoe UI Emoji,Segoe UI Symbol,Noto Color Emoji}.text-2xl{font-size:1.5rem;line-height:2rem}.text-3xl{font-size:1.875rem;line-height:2.25rem}.text-4xl{font-size:2.25rem;line-height:2.5rem}.text-5xl{font-size:3rem;line-height:1}.text-\[10px\]{font-size:10px}.text-\[11px\]{font-size:11px}.text-base{font-size:1rem;line-height:1.5rem}.text-lg{font-size:1.125rem;line-height:1.75rem}.text-sm{font-size:.875rem;line-height:1.25rem}.text-xl{font-size:1.25rem;line-height:1.75rem}.text-xs{font-size:.75rem;line-height:1rem}.font-black{font-weight:900}.font-bold{font-weight:700}.font-medium{font-weight:500}.font-semibold{font-weight:600}.uppercase{text-transform:uppercase}.italic{font-style:italic}.leading-none{line-height:1}.leading-relaxed{line-height:1.625}.tracking-\[0\.28em\]{letter-spacing:.28em}.tracking-\[0\.35em\]{letter-spacing:.35em}.tracking-wide{letter-spacing:.025em}.tracking-wider{letter-spacing:.05em}.tracking-widest{letter-spacing:.1em}.text-\[\#0069b4\]{--tw-text-opacity:1;color:rgb(0 105 180/var(--tw-text-opacity,1))}.text-\[\#272250\]{--tw-text-opacity:1;color:rgb(39 34 80/var(--tw-text-opacity,1))}.text-\[\#272250\]\/60{color:rgba(39,34,80,.6)}.text-\[\#38bdf8\]{--tw-text-opacity:1;color:rgb(56 189 248/var(--tw-text-opacity,1))}.text-\[\#4285F4\]{--tw-text-opacity:1;color:rgb(66 133 244/var(--tw-text-opacity,1))}.text-\[\#e6007e\]{--tw-text-opacity:1;color:rgb(230 0 126/var(--tw-text-opacity,1))}.text-\[\#ff66b8\]{--tw-text-opacity:1;color:rgb(255 102 184/var(--tw-text-opacity,1))}.text-amber-300{--tw-text-opacity:1;color:rgb(252 211 77/var(--tw-text-opacity,1))}.text-amber-500{--tw-text-opacity:1;color:rgb(245 158 11/var(--tw-text-opacity,1))}.text-emerald-300{--tw-text-opacity:1;color:rgb(110 231 183/var(--tw-text-opacity,1))}.text-purple-300{--tw-text-opacity:1;color:rgb(216 180 254/var(--tw-text-opacity,1))}.text-white{--tw-text-opacity:1;color:rgb(255 255 255/var(--tw-text-opacity,1))}.text-white\/30{color:hsla(0,0%,100%,.3)}.text-white\/50{color:hsla(0,0%,100%,.5)}.text-white\/60{color:hsla(0,0%,100%,.6)}.text-white\/65{color:hsla(0,0%,100%,.65)}.text-white\/70{color:hsla(0,0%,100%,.7)}.text-white\/75{color:hsla(0,0%,100%,.75)}.text-white\/80{color:hsla(0,0%,100%,.8)}.text-white\/85{color:hsla(0,0%,100%,.85)}.text-white\/90{color:hsla(0,0%,100%,.9)}.underline{text-decoration-line:underline}.opacity-15{opacity:.15}.opacity-30{opacity:.3}.shadow{--tw-shadow:0 1px 3px 0 rgba(0,0,0,.1),0 1px 2px -1px rgba(0,0,0,.1);--tw-shadow-colored:0 1px 3px 0 var(--tw-shadow-color),0 1px 2px -1px var(--tw-shadow-color)}.shadow,.shadow-lg{box-shadow:var(--tw-ring-offset-shadow,0 0 #0000),var(--tw-ring-shadow,0 0 #0000),var(--tw-shadow)}.shadow-lg{--tw-shadow:0 10px 15px -3px rgba(0,0,0,.1),0 4px 6px -4px rgba(0,0,0,.1);--tw-shadow-colored:0 10px 15px -3px var(--tw-shadow-color),0 4px 6px -4px var(--tw-shadow-color)}.ring-4{--tw-ring-offset-shadow:var(--tw-ring-inset) 0 0 0 var(--tw-ring-offset-width) var(--tw-ring-offset-color);--tw-ring-shadow:var(--tw-ring-inset) 0 0 0 calc(4px + var(--tw-ring-offset-width)) var(--tw-ring-color);box-shadow:var(--tw-ring-offset-shadow),var(--tw-ring-shadow),var(--tw-shadow,0 0 #0000)}.ring-white\/60{--tw-ring-color:hsla(0,0%,100%,.6)}.backdrop-blur-md{--tw-backdrop-blur:blur(12px)}.backdrop-blur-md,.backdrop-blur-sm{-webkit-backdrop-filter:var(--tw-backdrop-blur) var(--tw-backdrop-brightness) var(--tw-backdrop-contrast) var(--tw-backdrop-grayscale) var(--tw-backdrop-hue-rotate) var(--tw-backdrop-invert) var(--tw-backdrop-opacity) var(--tw-backdrop-saturate) var(--tw-backdrop-sepia);backdrop-filter:var(--tw-backdrop-blur) var(--tw-backdrop-brightness) var(--tw-backdrop-contrast) var(--tw-backdrop-grayscale) var(--tw-backdrop-hue-rotate) var(--tw-backdrop-invert) var(--tw-backdrop-opacity) var(--tw-backdrop-saturate) var(--tw-backdrop-sepia)}.backdrop-blur-sm{--tw-backdrop-blur:blur(4px)}.transition{transition-property:color,background-color,border-color,text-decoration-color,fill,stroke,opacity,box-shadow,transform,filter,-webkit-backdrop-filter;transition-property:color,background-color,border-color,text-decoration-color,fill,stroke,opacity,box-shadow,transform,filter,backdrop-filter;transition-property:color,background-color,border-color,text-decoration-color,fill,stroke,opacity,box-shadow,transform,filter,backdrop-filter,-webkit-backdrop-filter;transition-timing-function:cubic-bezier(.4,0,.2,1);transition-duration:.15s}.selection\:bg-\[\#e6007e\] ::-moz-selection{--tw-bg-opacity:1;background-color:rgb(230 0 126/var(--tw-bg-opacity,1))}.selection\:bg-\[\#e6007e\] ::selection{--tw-bg-opacity:1;background-color:rgb(230 0 126/var(--tw-bg-opacity,1))}.selection\:text-white ::-moz-selection{--tw-text-opacity:1;color:rgb(255 255 255/var(--tw-text-opacity,1))}.selection\:text-white ::selection{--tw-text-opacity:1;color:rgb(255 255 255/var(--tw-text-opacity,1))}.selection\:bg-\[\#e6007e\]::-moz-selection{--tw-bg-opacity:1;background-color:rgb(230 0 126/var(--tw-bg-opacity,1))}.selection\:bg-\[\#e6007e\]::selection{--tw-bg-opacity:1;background-color:rgb(230 0 126/var(--tw-bg-opacity,1))}.selection\:text-white::-moz-selection{--tw-text-opacity:1;color:rgb(255 255 255/var(--tw-text-opacity,1))}.selection\:text-white::selection{--tw-text-opacity:1;color:rgb(255 255 255/var(--tw-text-opacity,1))}.hover\:border-\[\#e6007e\]:hover{--tw-border-opacity:1;border-color:rgb(230 0 126/var(--tw-border-opacity,1))}.hover\:bg-\[\#0069b4\]:hover{--tw-bg-opacity:1;background-color:rgb(0 105 180/var(--tw-bg-opacity,1))}.hover\:bg-\[\#0284c7\]:hover{--tw-bg-opacity:1;background-color:rgb(2 132 199/var(--tw-bg-opacity,1))}.hover\:bg-\[\#ff1a94\]:hover{--tw-bg-opacity:1;background-color:rgb(255 26 148/var(--tw-bg-opacity,1))}.hover\:bg-pink-50:hover{--tw-bg-opacity:1;background-color:rgb(253 242 248/var(--tw-bg-opacity,1))}.hover\:bg-white\/5:hover{background-color:hsla(0,0%,100%,.05)}.hover\:text-white:hover{--tw-text-opacity:1;color:rgb(255 255 255/var(--tw-text-opacity,1))}@media (min-width:640px){.sm\:-mt-3{margin-top:-.75rem}.sm\:inline-flex{display:inline-flex}.sm\:w-40{width:10rem}.sm\:w-auto{width:auto}.sm\:grid-cols-2{grid-template-columns:repeat(2,minmax(0,1fr))}.sm\:grid-cols-3{grid-template-columns:repeat(3,minmax(0,1fr))}.sm\:flex-row{flex-direction:row}.sm\:items-center{align-items:center}.sm\:p-4{padding:1rem}.sm\:p-7{padding:1.75rem}.sm\:p-8{padding:2rem}.sm\:pb-12{padding-bottom:3rem}.sm\:pt-12{padding-top:3rem}.sm\:text-left{text-align:left}.sm\:text-2xl{font-size:1.5rem;line-height:2rem}.sm\:text-3xl{font-size:1.875rem;line-height:2.25rem}.sm\:text-4xl{font-size:2.25rem;line-height:2.5rem}.sm\:text-5xl{font-size:3rem;line-height:1}.sm\:text-6xl{font-size:3.75rem;line-height:1}.sm\:text-base{font-size:1rem;line-height:1.5rem}.sm\:text-lg{font-size:1.125rem;line-height:1.75rem}.sm\:text-sm{font-size:.875rem;line-height:1.25rem}}@media (min-width:768px){.md\:grid-cols-2{grid-template-columns:repeat(2,minmax(0,1fr))}}@media (min-width:1024px){.lg\:grid-cols-3{grid-template-columns:repeat(3,minmax(0,1fr))}}

diff --git a/index.html b/index.html
@@ -263,6 +263,11 @@
         <figcaption><strong class="text-white text-sm block">Verito</strong><span class="text-white/70 text-xs">Pole sport</span></figcaption>
       </figure>
       <figure class="profe-card bg-[#161332] border border-white/10 rounded-2xl p-3 text-center">
+        <!-- Sabri: sin foto todavía. Cuando llegue: img/profes/sabri-480.webp / -960.webp y reemplazar este div por un <img> como las demás -->
+        <div role="img" aria-label="Sabri, profe de Pole sport" class="w-full aspect-[4/5] rounded-xl mb-2 bg-gradient-to-br from-[#e6007e]/40 to-[#7c3aed]/40 flex items-center justify-center"><span class="font-akira text-5xl text-white/90">S</span></div>
+        <figcaption><strong class="text-white text-sm block">Sabri</strong><span class="text-white/70 text-xs">Pole sport</span></figcaption>
+      </figure>
+      <figure class="profe-card bg-[#161332] border border-white/10 rounded-2xl p-3 text-center">
         <img src="img/profes/lu-480.webp" srcset="img/profes/lu-480.webp 480w, img/profes/lu-960.webp 960w" sizes="(min-width:640px) 280px, 45vw" width="480" height="600" loading="lazy" decoding="async" alt="Lu, profe de Acro adultos y Flexibilidad" class="w-full aspect-[4/5] object-cover rounded-xl mb-2" />
         <figcaption><strong class="text-white text-sm block">Lu</strong><span class="text-white/70 text-xs">Acro adultos y Flexibilidad</span></figcaption>
       </figure>
